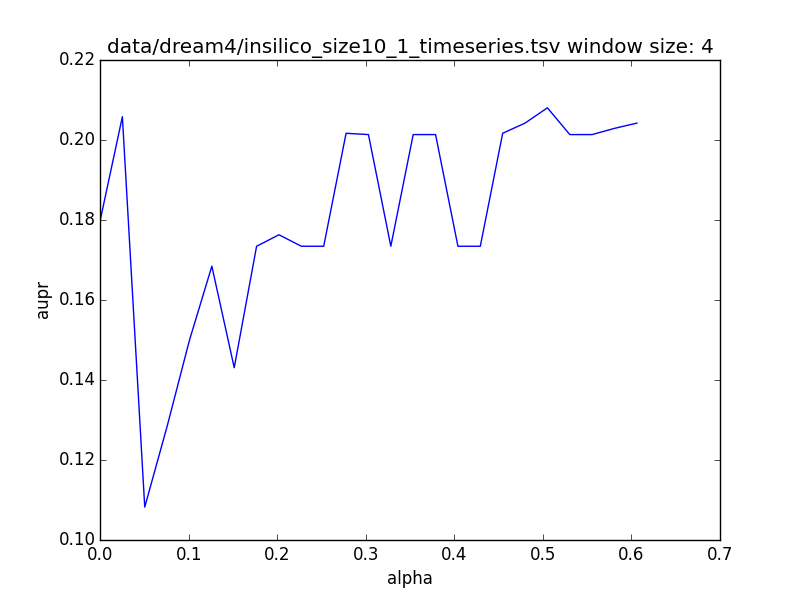
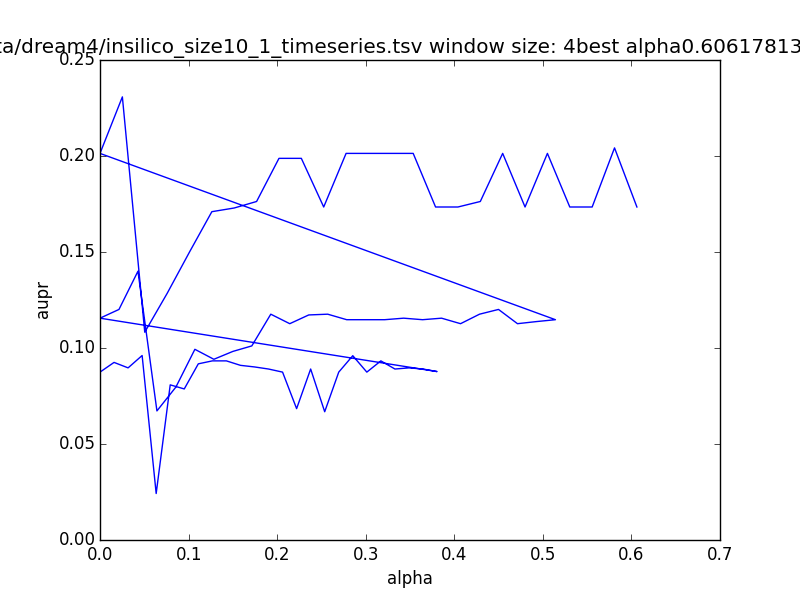
reduced computational time to run the post_analysis. the post analysis currently takes up alot of time due to the unpickling pr process

diff --git a/run_post_analysis2.py b/run_post_analysis2.py
@@ -6,7 +6,7 @@ import os
 import pandas as pd
 from Roller.util.Evaluator import Evaluator
 #get all pickle files
-path="/projects/p20519/sorted_Rollers/data/dream4/insilico_size10_1_timeseries/"
+path="/projects/p20519/Roller_outputs/"
 filenames = next(os.walk(path))[2]
 nfiles = len(filenames)
 #organize pickled objects by dataset analyzed
@@ -14,24 +14,7 @@ obj_list = []
 counter = 0
 image_file_path = "/home/jjw036/Roller/aggregated"
 
-target_dataset =  "data/dream4/insilico_size10_1_timeseries.tsv"
-
 dataset_dict = {}
-best_alpha_list = []
-aupr_list = []
-auroc_list = []
-tpr_list = []
-fpr_list = []
-precision_list = []
-recall_list = []
-aupr_list2 = []
-auroc_list2 = []
-tpr_list2 = []
-fpr_list2 = []
-precision_list2 = []
-recall_list2 = []
-
-window_size_list = []
 
 for file in filenames:
   full_path = path + file
@@ -41,14 +24,43 @@ for file in filenames:
   if any("file_path" in attribute for attribute in attributes):
     counter += 1
     print(str(counter) + " out of " + str(nfiles))
+    obj_list.append(roller_obj)
     
     key = roller_obj.file_path
-    if key == target_dataset:
+    if key not in dataset_dict:
+      dataset_dict[key] = []
+
+    dataset_dict[key].append(roller_obj)
+    
+print(len(obj_list))
+print(dataset_dict.keys())
+#optimum alpha. hypothesis: best aupr and best auroc near optimum alpha.
+#distance from alpha, aupr auroc
+
+# x axis is distance from best alpha
+# y axis is aupr, auroc, tpr, fpr
+
+best_alpha_list = []
+aupr_list = []
+auroc_list = []
+tpr_list = []
+fpr_list = []
+precision_list = []
+recall_list = []
+
+window_size_list = []
+
+
+for dataset in dataset_dict.keys():
+  #print aupr and auroc
+  #same window size? 
+  if dataset == dataset_dict.keys()[1]:
+    for roller_obj in dataset_dict[dataset]:    
       window_size = roller_obj.window_width
-      for nwindow,window in enumerate(roller_obj.window_list):
-        print(nwindow)
+      for window in roller_obj.window_list:
     #other graphs correlating window size to statistics
-        if window_size == 21:    
+        if window_size == 20:    
+          window_size_list.append(window_size)
           current_alpha = window.alpha
           alpha_table = window.cv_table["alpha"]
           best_a_index = window.cv_table["positive_q2"].idxmax(1)
@@ -71,22 +83,20 @@ for file in filenames:
           tpr_list.append(tpr[-1])
           fpr_list.append(fpr[-1])
           auroc_list.append(auroc)
-          
-        if alpha_dist < 0.05:
-          window_size_list.append(window_size)
-          precision_list2.append(precision[-1])
-          recall_list2.append(recall[-1])
-          aupr_list2.append(aupr[-1])
-          tpr_list2.append(tpr[-1])
-          fpr_list2.append(fpr[-1])
-          auroc_list2.append(auroc)
 
 print(window_size_list)
 
 result_list = [precision_list, recall_list, aupr_list, tpr_list, fpr_list, auroc_list]
 result_titles = ["precision","recall","aupr","tpr","fpr","auroc"]
+fig = plt.figure(100)
+plt.scatter(window_size_list, precision_list)
+title_string = "Window Size 21, One Dataset"
+plt.title(title_string)
+plt.xlabel('Window Size')
+plt.ylabel(result_titles[0])
+image_save = image_file_path + "_windowsize_" + str(result_titles[0]) + ".png"
+fig.savefig(image_save)
 
-result_list2 = [precision_list2, recall_list2, aupr_list2, tpr_list2, fpr_list2, auroc_list2]
 
 for count,result in enumerate(result_list):
   fig = plt.figure(count)
@@ -95,13 +105,13 @@ for count,result in enumerate(result_list):
   plt.title(title_string)
   plt.xlabel('Approx Distance from Best Alpha')
   plt.ylabel(result_titles[count])
-  image_save = image_file_path + "_best_alpha_" + str(result_titles[count]) + ".png"
+  image_save = image_file_path + "_" + str(result_titles[count]) + ".png"
   fig.savefig(image_save)
 
-for count,result in enumerate(result_list2):
+for count,result in enumerate(result_list):
   fig = plt.figure(6+count)
   plt.scatter(window_size_list, result)
-  title_string = "Window Size, Optimal Alpha, One Dataset"
+  title_string = "Window Size 21, One Dataset"
   plt.title(title_string)
   plt.xlabel('Window Size')
   plt.ylabel(result_titles[count])

diff --git a/organize_rollers.py b/organize_rollers.py
@@ -1,0 +1,48 @@
+import matplotlib
+matplotlib.use('Agg')
+import matplotlib.pyplot as plt
+
+import os
+import pandas as pd
+from Roller.util.Evaluator import Evaluator
+import shutil
+import sys
+
+if __name__ == "__main__":
+  file_start = int(sys.argv[1])
+  #get all pickle files
+  path="/projects/p20519/Roller_outputs/"
+  filenames = next(os.walk(path))[2]
+  nfiles = len(filenames)
+  #organize pickled objects by dataset analyzed
+  obj_list = []
+  counter = 0
+  image_file_path = "/home/jjw036/Roller/aggregated"
+
+  target_dataset =  "data/dream4/insilico_size10_1_timeseries.tsv"
+
+  target_directory = "/projects/p20519/sorted_Rollers/"
+
+
+  #currently it's really hard to unpickle all these objects at once. This script
+  #tries to mv files into different directories according to dataset.
+
+  file_end = file_start + 170
+
+  if file_end > nfiles:
+    file_end = nfiles -1
+
+  for file in filenames[file_start:file_end]:
+    full_path = path + file
+    print(full_path)
+    roller_obj = pd.read_pickle(full_path)
+    attributes = dir(roller_obj)
+    if any("file_path" in attribute for attribute in attributes):
+      counter += 1
+      key = roller_obj.file_path
+      print(str(counter) + " out of " + str(nfiles))
+      directory = target_directory + key
+      directory = directory[:-4]
+      if not os.path.exists(directory):
+        os.makedirs(directory)
+      shutil.copy(full_path, directory)
